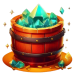
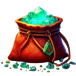
Shop updates

diff --git a/components/Bot/BotShop/index.js b/components/Bot/BotShop/index.js
@@ -1,5 +1,5 @@
-import { useState } from 'react'
-import { useDispatch } from 'react-redux'
+import { useEffect, useState } from 'react'
+import { useDispatch, useSelector } from 'react-redux'
 import Image from 'next/image'
 import cn from 'classnames'
 
@@ -50,8 +50,20 @@ const shopItems = [
 
 const BotShop = () => {
   const dispatch = useDispatch()
+  const products = useSelector($bot.get.activeProducts)
+  const offer = useSelector($bot.get.offer)
+  const user = useSelector(({ $bot }) => $bot.user)
 
-  const paid = false
+  useEffect(() => {
+    fetchProducts()
+  }, [])
+
+  const fetchProducts = async () => {
+    const result = await $bot.api.products()
+    if (result && !result.error) {
+      dispatch($bot.set.products(result))
+    }
+  }
 
   const handlePay = (id) => async () => {
     const item = shopItems.find(item => item.id === id)
@@ -98,99 +110,111 @@ const BotShop = () => {
 
   return (
     <App.Flex column fullWidth center gap={32} className={styles.container}>
-      <App.Flex column fullWidth gap={16}>
-        <App.Flex center className={styles.title}>
-          <Image src="/images/bot/shop-title-1.png" width={213} height={43} alt="" />
+      {offer ? (
+        <App.Flex column fullWidth gap={16}>
+          <App.Flex center className={styles.title}>
+            <Image src="/images/bot/shop-title-1.png" width={213} height={43} alt="" />
 
-          <App.Flex center className={styles.text}>
-            <App.Text size={16} weight={700} height={1} color="#FFBB01">Offers</App.Text>
+            <App.Flex center className={styles.text}>
+              <App.Text size={16} weight={700} height={1} color="#FFBB01">Offers</App.Text>
+            </App.Flex>
           </App.Flex>
-        </App.Flex>
 
-        <App.Flex column fullWidth gap={4} className={styles.offer} onClick={handleOffer}>
-          {paid ? (
-            <App.Flex row center gap={4} className={cn(styles.header, styles.small)}>
-              <App.Icon icon="check-circle-fill" width={20} height={20} secondaryColor={'transparent'} />
-              <App.Text size={16} weight={700} color="#FFBB01" sx={{ textShadow: '0px 1.484px 9.063px rgba(182, 0, 0, 0.55), 0px 1px 3px rgba(0, 0, 0, 0.25)' }}>Purchased!</App.Text>
-            </App.Flex>
-          ) : (
-            <App.Flex row align="center" justify="space-between" className={styles.header}>
-              <App.Flex row align="center" width="45%">
-                <App.Text size={16} weight={700} color="#FFBB01" sx={{ textShadow: '0px 1.484px 9.063px rgba(182, 0, 0, 0.55), 0px 1px 3px rgba(0, 0, 0, 0.25)' }}>First Purchase Discount</App.Text>
+          <App.Flex column fullWidth gap={4} className={styles.offer} onClick={handlePay(offer.id)}>
+            {user.product_ids.includes(offer.id) ? (
+              <App.Flex row center gap={4} className={cn(styles.header, styles.small)}>
+                <App.Icon icon="check-circle-fill" width={20} height={20} secondaryColor={'transparent'} />
+                <App.Text size={16} weight={700} color="#FFBB01" sx={{ textShadow: '0px 1.484px 9.063px rgba(182, 0, 0, 0.55), 0px 1px 3px rgba(0, 0, 0, 0.25)' }}>Purchased!</App.Text>
               </App.Flex>
-
-              <App.Flex row align="center" justify="flex-end" width="45%">
-                <App.Text right size={28} weight={800} color="#FFBB01" sx={{ textShadow: '0px 1.484px 9.063px rgba(182, 0, 0, 0.55), 0px 1px 3px rgba(0, 0, 0, 0.25)' }}>50% OFF</App.Text>
-              </App.Flex>
-            </App.Flex>
-          )}
-
-          <App.Flex row justify="space-between" align="center">
-            <App.Flex column align="center" width={paid ? '100%' : '40%'} gap={4}>
-              <Image src="/images/bot/shop-image-1.png" width={76} height={76} alt="" />
-
-              <App.Text center size={13} weight={800} height={1}>10,000 gems</App.Text>
-            </App.Flex>
-
-            {!paid ? (
-              <App.Flex column justify="center" align="flex-start" width="40%" gap={8} sx={{ paddingTop: 8 }}>
-                <App.Text size={14} weight={700} height={1} sx={{ textShadow: '0px 1px 3px rgba(0, 0, 0, 0.25)' }}>Pile of Gems</App.Text>
-                <App.Flex row align="center">
-                  <App.Flex row align="center" gap={4}>
-                    <App.Text lineThrough size={20} weight={700} height={1}>50</App.Text>
-                    <App.Text size={20} weight={800} height={1}>25</App.Text>
-                  </App.Flex>
-
-                  <Image src="/images/bot/star.png" width={23} height={22} alt="" />
+            ) : (
+              <App.Flex row align="center" justify="space-between" className={styles.header}>
+                <App.Flex row align="center" width="45%">
+                  <App.Text size={16} weight={700} color="#FFBB01" sx={{ textShadow: '0px 1.484px 9.063px rgba(182, 0, 0, 0.55), 0px 1px 3px rgba(0, 0, 0, 0.25)' }}>First Purchase Discount</App.Text>
                 </App.Flex>
 
-                <App.Button variant="bot" small>Buy Now</App.Button>
+                <App.Flex row align="center" justify="flex-end" width="45%">
+                  <App.Text right size={28} weight={800} color="#FFBB01" sx={{ textShadow: '0px 1.484px 9.063px rgba(182, 0, 0, 0.55), 0px 1px 3px rgba(0, 0, 0, 0.25)' }}>{offer.discount}</App.Text>
+                </App.Flex>
               </App.Flex>
-            ) : null}
-          </App.Flex>
-        </App.Flex>
-      </App.Flex>
+            )}
 
-      <App.Flex column fullWidth gap={16}>
-        <App.Flex center className={styles.title}>
-          <Image src="/images/bot/shop-title-2.png" width={358} height={43} alt="" />
+            <App.Flex row justify="space-between" align="center">
+              <App.Flex column align="center" width={user.product_ids.includes(offer.id) ? '100%' : '40%'} gap={4}>
+                <Image src={`/images/bot/${offer.image}`} width={76} height={76} alt="" />
 
-          <App.Flex center className={styles.text}>
-            <App.Text size={16} weight={700} height={1} color="#FFBB01">Gems</App.Text>
-          </App.Flex>
-        </App.Flex>
+                <App.Text center size={13} weight={800} height={1}>{offer.gems} gems</App.Text>
+              </App.Flex>
 
-        <App.Flex column fullWidth gap={16} className={styles.gems}>
-          {shopItems.map((item, index) => {
-            return (
-              <App.Flex key={index} fullWidth className={cn(styles.box, styles[item.className])} onClick={handlePay(item.id)}>
-                <App.Flex fullWidth className={styles.inner}>
-                  <App.Flex row fullWidth justify="space-between" align="center">
-                    <App.Flex column align="center" width="40%" gap={4}>
-                      <Image src={item.image} width={76} height={76} alt="" />
-
-                      <App.Text center size={13} weight={800} height={1}>{item.gems} gems</App.Text>
+              {!user.product_ids.includes(offer.id) ? (
+                <App.Flex column justify="center" align="flex-start" width="40%" gap={8} sx={{ paddingTop: 8 }}>
+                  <App.Text size={14} weight={700} height={1} sx={{ textShadow: '0px 1px 3px rgba(0, 0, 0, 0.25)' }}>{offer.title}</App.Text>
+                  <App.Flex row align="center">
+                    <App.Flex row align="center" gap={4}>
+                      <App.Text lineThrough size={20} weight={700} height={1}>{offer.priceOld}</App.Text>
+                      <App.Text size={20} weight={800} height={1}>{offer.price}</App.Text>
                     </App.Flex>
 
-                    <App.Flex column justify="center" align="flex-start" width="50%" gap={16} sx={{ paddingTop: 8 }}>
-                      <App.Flex column fullWidth gap={8}>
-                        <App.Text size={14} weight={700} height={1} sx={{ textShadow: '0px 1px 3px rgba(0, 0, 0, 0.25)' }}>{item.title}</App.Text>
-                        <App.Flex row align="center">
-                          <App.Text size={20} weight={800} height={1}>{item.price}</App.Text>
-                          <Image src="/images/bot/star.png" width={23} height={22} alt="" />
-                          <App.Text size={14} weight={400} height={1}>{item.discount}</App.Text>
-                        </App.Flex>
+                    {offer.currency == 'XTR' ? (
+                      <Image src="/images/bot/star.png" width={23} height={22} alt="" />
+                    ) : (
+                      <App.Text size={20} weight={800} height={1}>{offer.currency}</App.Text>
+                    )}
+                  </App.Flex>
+
+                  <App.Button variant="bot" small>Buy Now</App.Button>
+                </App.Flex>
+              ) : null}
+            </App.Flex>
+          </App.Flex>
+        </App.Flex>
+      ) : null}
+
+      {products.length ? (
+        <App.Flex column fullWidth gap={16}>
+          <App.Flex center className={styles.title}>
+            <Image src="/images/bot/shop-title-2.png" width={358} height={43} alt="" />
+
+            <App.Flex center className={styles.text}>
+              <App.Text size={16} weight={700} height={1} color="#FFBB01">Gems</App.Text>
+            </App.Flex>
+          </App.Flex>
+
+          <App.Flex column fullWidth gap={16} className={styles.gems}>
+            {products.map((item, index) => {
+              return (
+                <App.Flex key={index} fullWidth className={cn(styles.box, styles[item.className])} onClick={handlePay(item.id)}>
+                  <App.Flex fullWidth className={styles.inner}>
+                    <App.Flex row fullWidth justify="space-between" align="center">
+                      <App.Flex column align="center" width="40%" gap={4}>
+                        <Image src={`/images/bot/${item.image}`} width={76} height={76} alt="" />
+
+                        <App.Text center size={13} weight={800} height={1}>{item.gems} gems</App.Text>
                       </App.Flex>
 
-                      <App.Button variant="bot" small>Buy Now</App.Button>
+                      <App.Flex column justify="center" align="flex-start" width="50%" gap={16} sx={{ paddingTop: 8 }}>
+                        <App.Flex column fullWidth gap={8}>
+                          <App.Text size={14} weight={700} height={1} sx={{ textShadow: '0px 1px 3px rgba(0, 0, 0, 0.25)' }}>{item.title}</App.Text>
+                          <App.Flex row align="center">
+                            <App.Text size={20} weight={800} height={1}>{item.price}</App.Text>
+                            {item.currency == 'XTR' ? (
+                              <Image src="/images/bot/star.png" width={23} height={22} alt="" />
+                            ) : (
+                              <App.Text size={20} weight={800} height={1}>{item.currency}</App.Text>
+                            )}
+                            <App.Text size={14} weight={400} height={1}>{item.discount != '' ? `(${item.discount})` : ''}</App.Text>
+                          </App.Flex>
+                        </App.Flex>
+
+                        <App.Button variant="bot" small>Buy Now</App.Button>
+                      </App.Flex>
                     </App.Flex>
                   </App.Flex>
                 </App.Flex>
-              </App.Flex>
-            )
-          })}
+              )
+            })}
+          </App.Flex>
         </App.Flex>
-      </App.Flex>
+      ) : null}
     </App.Flex>
   )
 }

diff --git a/store/bot.js b/store/bot.js
@@ -1,4 +1,4 @@
-import { createSlice } from '@reduxjs/toolkit'
+import { createSelector, createSlice } from '@reduxjs/toolkit'
 
 import { request } from './index'
 
@@ -12,6 +12,7 @@ export const botSlice = createSlice({
     onboard: null,
     outbid: false,
     megaModal: false,
+    products: [],
   },
 
   reducers: {
@@ -48,8 +49,43 @@ export const botSlice = createSlice({
       state.tab = newHistory.pop()
       state.tabHistory = newHistory
     },
+
+    products: (state, { payload }) => {
+      state.products = payload.map(item => {
+        return {
+          id: item.id,
+          active: item.active,
+          position: item.position * 1,
+          title: item.title,
+          className: item.color,
+          gems: item.gems.toLocaleString('en-US'),
+          price: item.price,
+          priceOld: item.price_old,
+          currency: item.price_currency.toUpperCase(),
+          image: item.image,
+          discount: item.description,
+          offer: item.restriction === 'one_time',
+        }
+      })
+    }
   },
 })
+
+const get = {
+  activeProducts: createSelector([
+    state => state.$bot.products,
+  ], (products) => {
+    const newProducts = [...products].sort((a, b) => a.position - b.position)
+    return newProducts.filter(item => item.active && !item.offer)
+  }),
+
+  offer: createSelector([
+    state => state.$bot.products,
+  ], (products) => {
+    const newProducts = [...products].sort((a, b) => a.position - b.position)
+    return newProducts.find(item => item.offer && item.active)
+  }),
+}
 
 const api = {
   invoice: (params) => {
@@ -83,10 +119,15 @@ const api = {
   claim: (params) => {
     return request(`telegram/claim/task`, 'POST', {api: 'accounts', ...params})
   },
+
+  products: () => {
+    return request(`products`, 'GET', {api: 'accounts'})
+  },
 }
 
 export default {
   reducer: botSlice.reducer,
   set: botSlice.actions,
+  get,
   api,
 }

diff --git a/libs/TelegramBot.ts b/libs/TelegramBot.ts
@@ -9,7 +9,7 @@ class TelegramBot {
   }
   
   getInitData = () => {
-    return 'query_id=AAEfkDliAAAAAB-QOWLyvY6G&user=%7B%22id%22%3A1647939615%2C%22first_name%22%3A%22Eugene%F0%9F%A6%B4%22%2C%22last_name%22%3A%22Domanskyi%22%2C%22username%22%3A%22ievgenii_domanskyi%22%2C%22language_code%22%3A%22uk%22%2C%22allows_write_to_pm%22%3Atrue%7D&auth_date=1724317098&hash=665570655d38e6e47102e7963fbf272e875600659397f7c2fcccf772ded8ffe1'
+    // return 'query_id=AAEfkDliAAAAAB-QOWLyvY6G&user=%7B%22id%22%3A1647939615%2C%22first_name%22%3A%22Eugene%F0%9F%A6%B4%22%2C%22last_name%22%3A%22Domanskyi%22%2C%22username%22%3A%22ievgenii_domanskyi%22%2C%22language_code%22%3A%22uk%22%2C%22allows_write_to_pm%22%3Atrue%7D&auth_date=1724317098&hash=665570655d38e6e47102e7963fbf272e875600659397f7c2fcccf772ded8ffe1'
     // return 'query_id=AAEfkDliAAAAAB-QOWLrWEts&user=%7B%22id%22%3A1647939615%2C%22first_name%22%3A%22Eugene%F0%9F%A6%B4%22%2C%22last_name%22%3A%22Domanskyi%22%2C%22username%22%3A%22ievgenii_domanskyi%22%2C%22language_code%22%3A%22uk%22%2C%22allows_write_to_pm%22%3Atrue%7D&auth_date=1726580040&hash=1c31b725421db020fead18da41f0e61010fe65b54b353a6958189f4694d41961'
     // return 'query_id=AAEfkDliAAAAAB-QOWJAHhnd&user=%7B%22id%22%3A1647939615%2C%22first_name%22%3A%22Eugene%F0%9F%A6%B4%22%2C%22last_name%22%3A%22Domanskyi%22%2C%22username%22%3A%22ievgenii_domanskyi%22%2C%22language_code%22%3A%22uk%22%2C%22allows_write_to_pm%22%3Atrue%7D&auth_date=1728383232&hash=f8125f9199f49bbc6c2bc4190c456cc845883dfaec3b4439884410a1206abda9'
     
